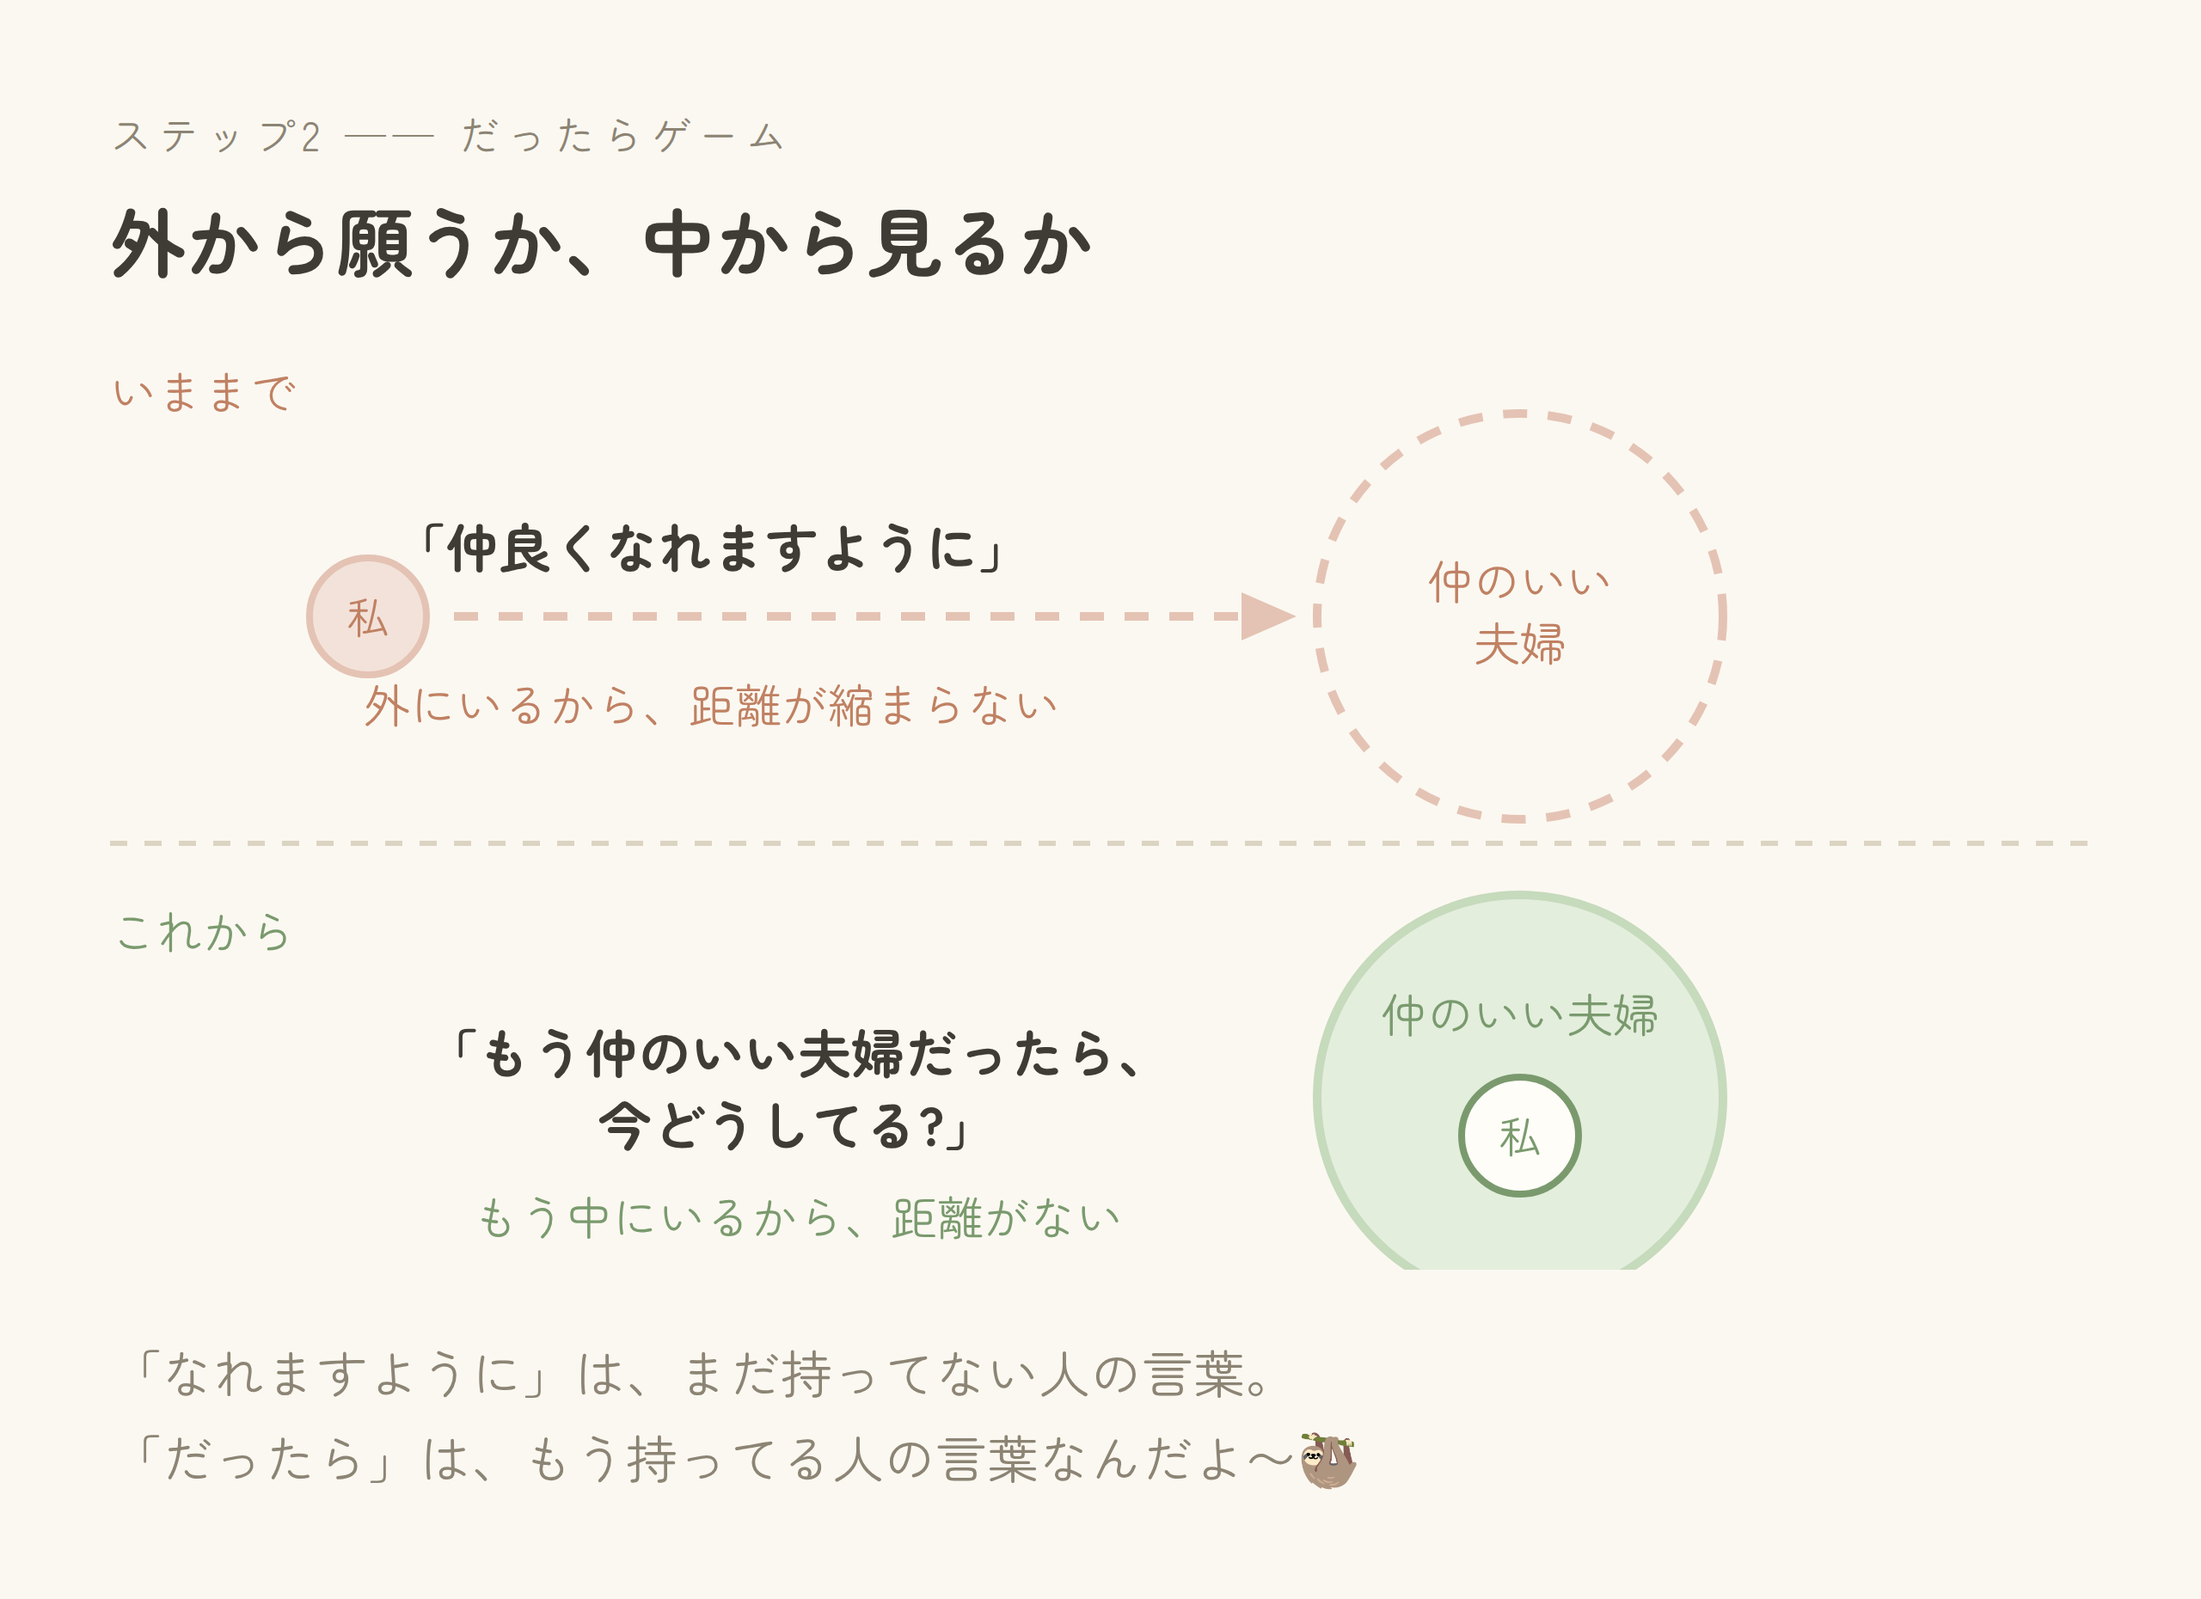
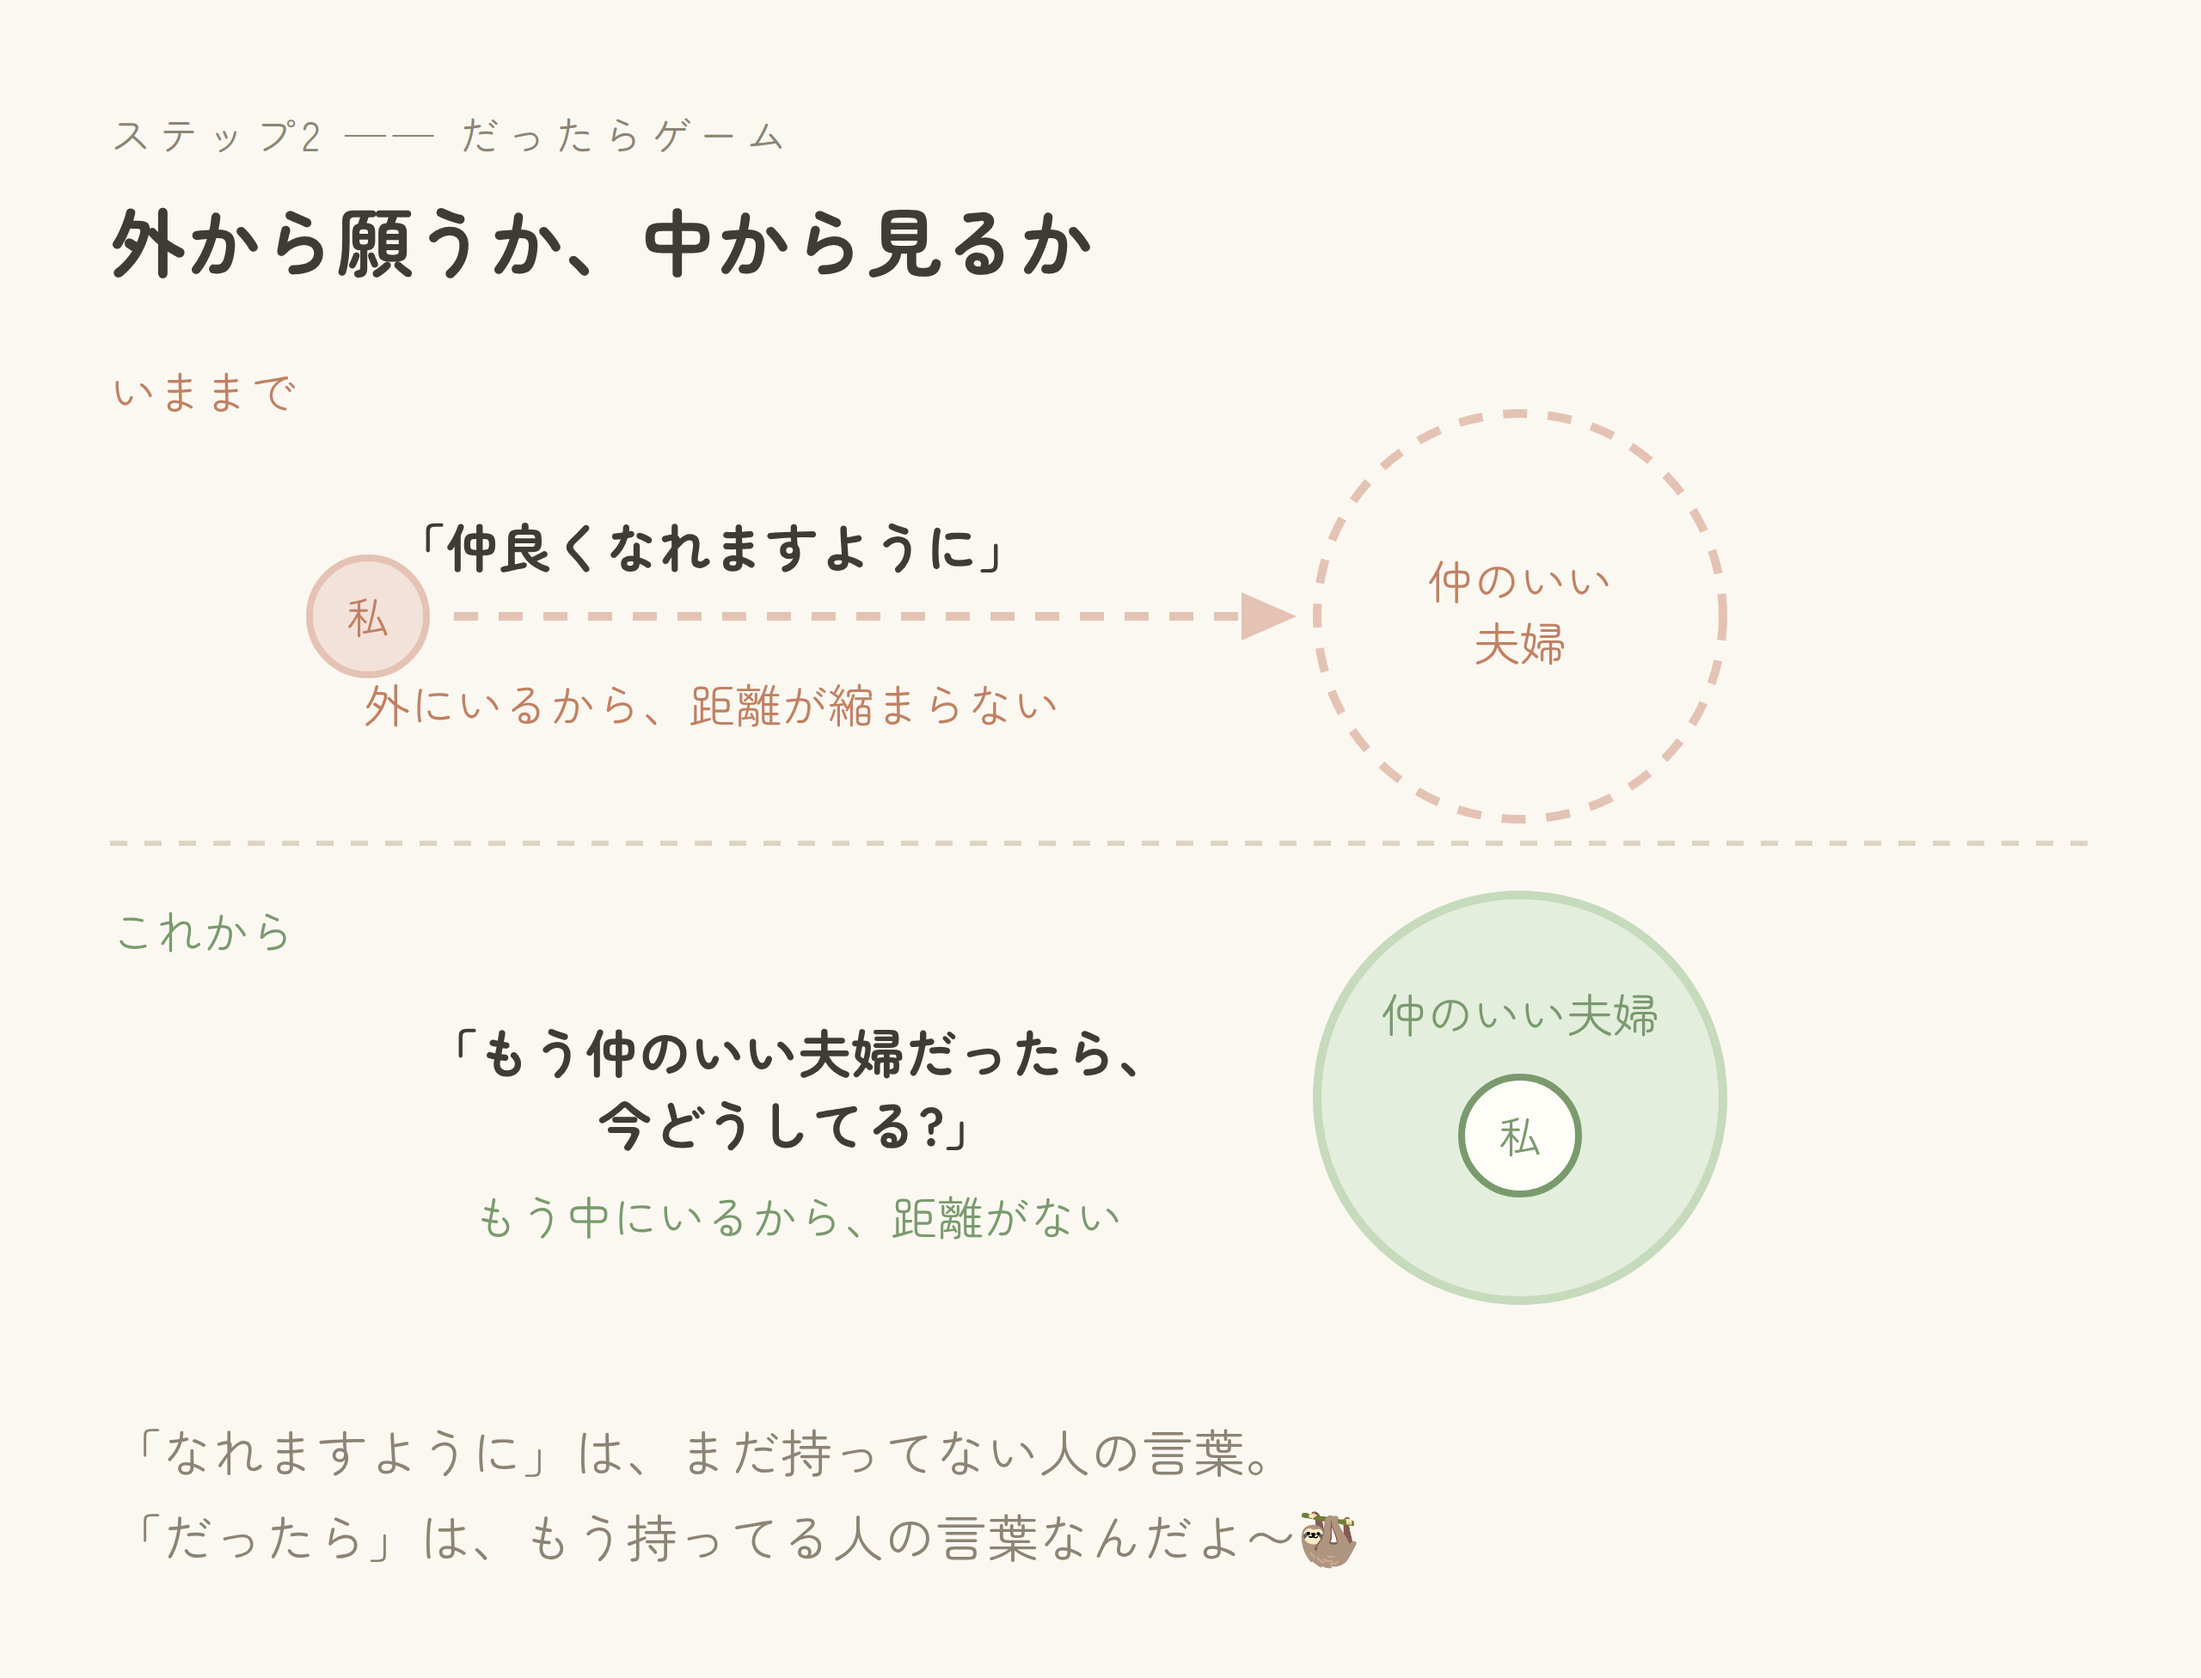
fig4の緑の円が欠けていたのを修正
円の下端(cy 430 + r 118 = 548)がviewBoxの高さ530を超えていたため、
下が18px切り落とされていた。viewBoxを576に拡げて全体が入るようにした。

- 全4図のviewBox高さと図形下端を点検し、他にはみ出しが無いことを確認
- README に「viewBoxのはみ出し」をはまりどころとして追記
  (SVGは枠外を警告なしで切り落とすため、図形を動かしたら下端の確認が要る)

Claude-Session: https://claude.ai/code/session_015xxkUxjc7HKCLGLGJKUsKr

diff --git a/images/gen_figures.js b/images/gen_figures.js
@@ -111,7 +111,7 @@ const FIGS = [
 
 // ── fig4 だったら : ゴールとの「距離」が意味 ──────────────────────
 { file:'fig4_だったら', sub:'ステップ2 ── だったらゲーム', title:'外から願うか、中から見るか',
-  svg:`<svg viewBox="0 0 1152 530" xmlns="http://www.w3.org/2000/svg">
+  svg:`<svg viewBox="0 0 1152 576" xmlns="http://www.w3.org/2000/svg">
   <text class="t" x="0" y="30" font-size="27" fill="${C.r}">いままで</text>
   <circle cx="820" cy="150" r="118" fill="none" stroke="${C.rLine}" stroke-width="5" stroke-dasharray="14 12"/>
   <text class="t" x="820" y="140" font-size="27" fill="${C.r}" text-anchor="middle">仲のいい</text>

diff --git a/images/README.md b/images/README.md
@@ -96,3 +96,11 @@ node images/gen_cards.js
 - `images/trim.py` が下端の余白を自動で切る(Pillowを使用)
 - 配色・書体は章扉と共通。赤系 `#C08163`/`#F3E2DA` は
   **「外すもの・高すぎるもの・いままでのやり方」の合図としてのみ**使う
+
+### はまりどころ: viewBoxのはみ出し
+
+SVGは `viewBox` の外に出た部分が**黙って切り落とされる**。エラーも警告も出ない。
+円は `cy + r`、矩形は `y + height` が下端になるので、viewBoxの高さがそれ未満だと
+円が欠けた状態で書き出される(fig4で実際に起きた)。
+
+図形を足したり動かしたりしたら、必ず下端を確認すること。
